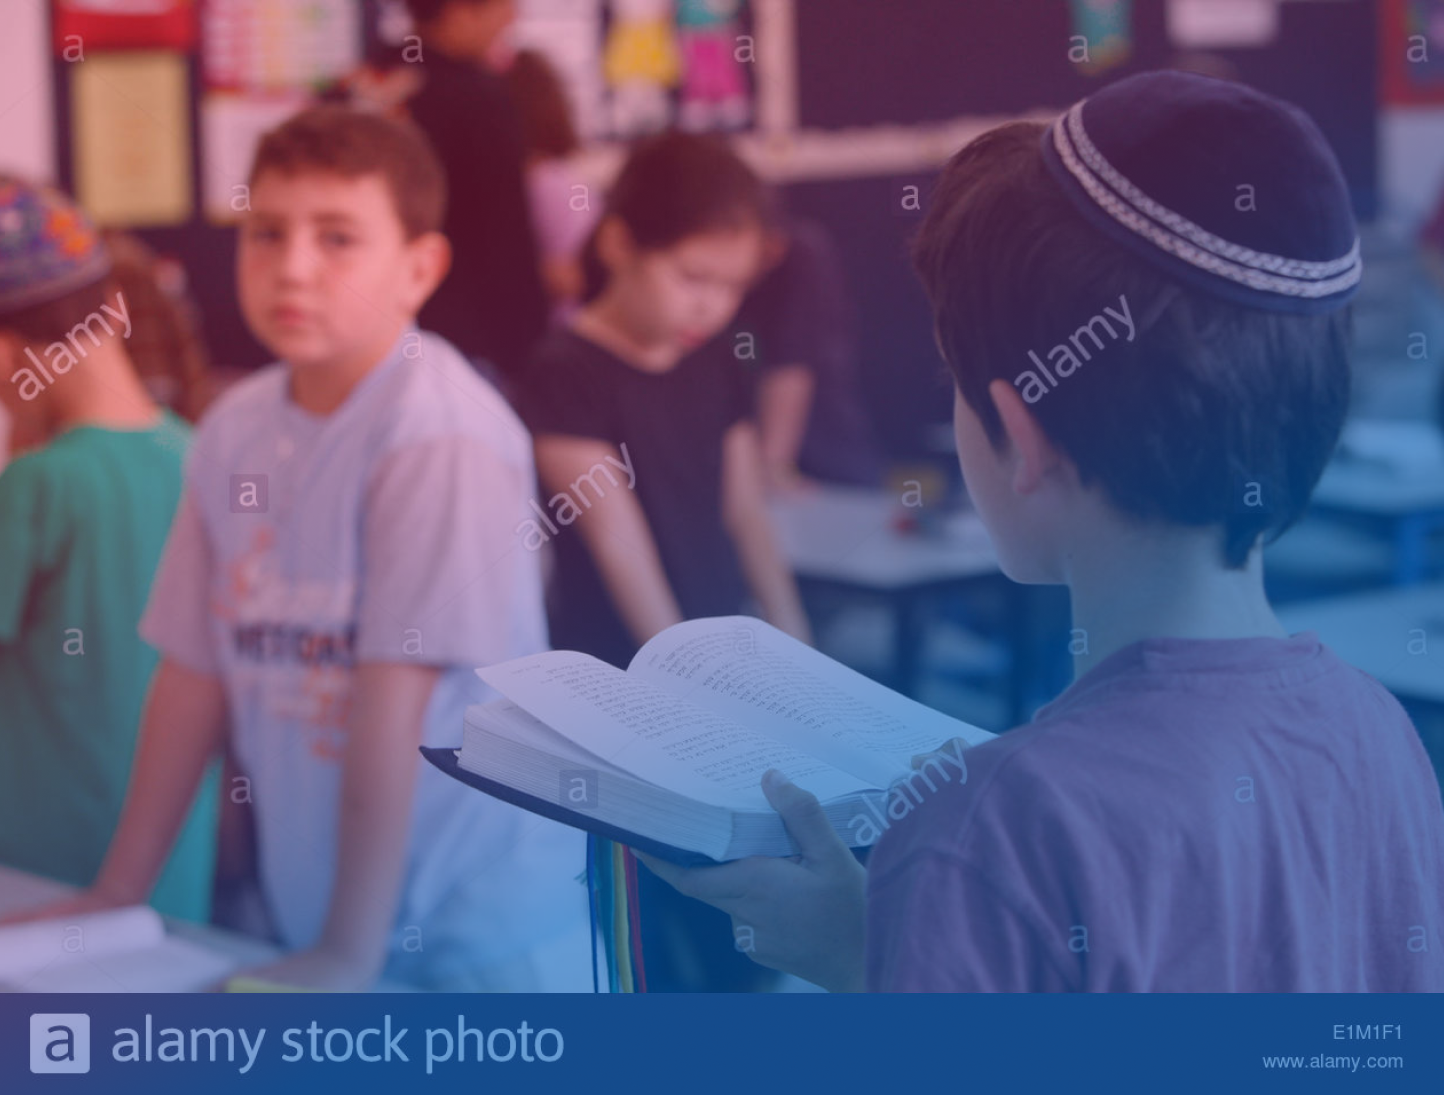
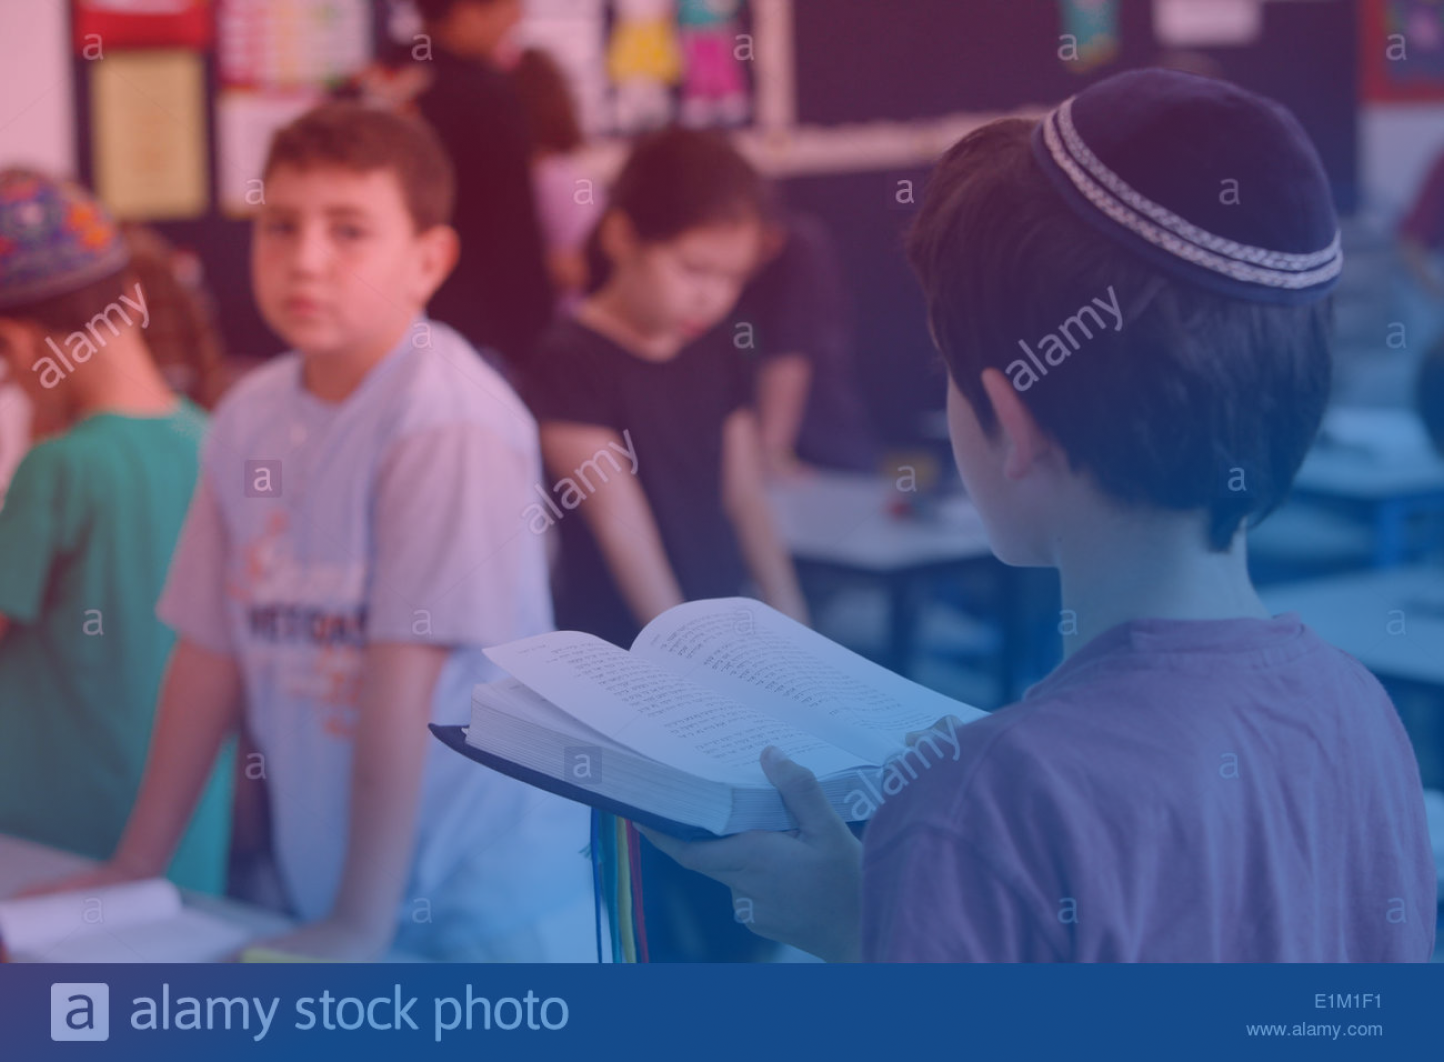
added header img

diff --git a/mediaComputer.css b/mediaComputer.css
@@ -11,10 +11,11 @@
       left: 0;
       width: 100%;
       height: 100%;
-  
-      transform: scaleX(2.5);
-      border-radius: 0 0 50% 50%/0 0 100% 100%;      
-      background-color: black;
+      
+      clip-path: ellipse(100% 100% at 50% 0%);
+   
+      background-image: url("assets/header.png");
+      background-size: cover;
   
     }
   

diff --git a/index.html b/index.html
@@ -27,7 +27,7 @@
       <section>
         <div class = "container-fluid">
           <div class = "content">
-
+            
             <img id = "logostar" src = "assets/logo star 1.png" style = "margin-top: 40px;">
             <h6 id = "schoolName">Farber Hebrew Day School</h6>
             <h8 id = "rallyName">CHARITY RALLY</h8>

diff --git a/mediaTablet.css b/mediaTablet.css
@@ -11,9 +11,9 @@
       width: 100%;
       height: 100%;
   
-      border-radius: 0 0 50% 50%/0 0 100% 100%;
-      transform: scaleX(3.5);
-      background-color: black;
+      clip-path: ellipse(100% 100% at 50% 0%);
+      background-image: url("assets/header.png");
+      background-size: cover;
   
     }
   

diff --git a/mediaMobile.css b/mediaMobile.css
@@ -11,9 +11,9 @@
     width: 100%;
     height: 100%;
 
-    border-radius: 0 0 50% 50%/0 0 100% 100%;
-    transform: scaleX(3.5);
-    background-color: black;
+    clip-path: ellipse(100% 100% at 50% 0%);
+    background-image: url("assets/headermobile.png");
+    background-size: cover;
 
   }
 
